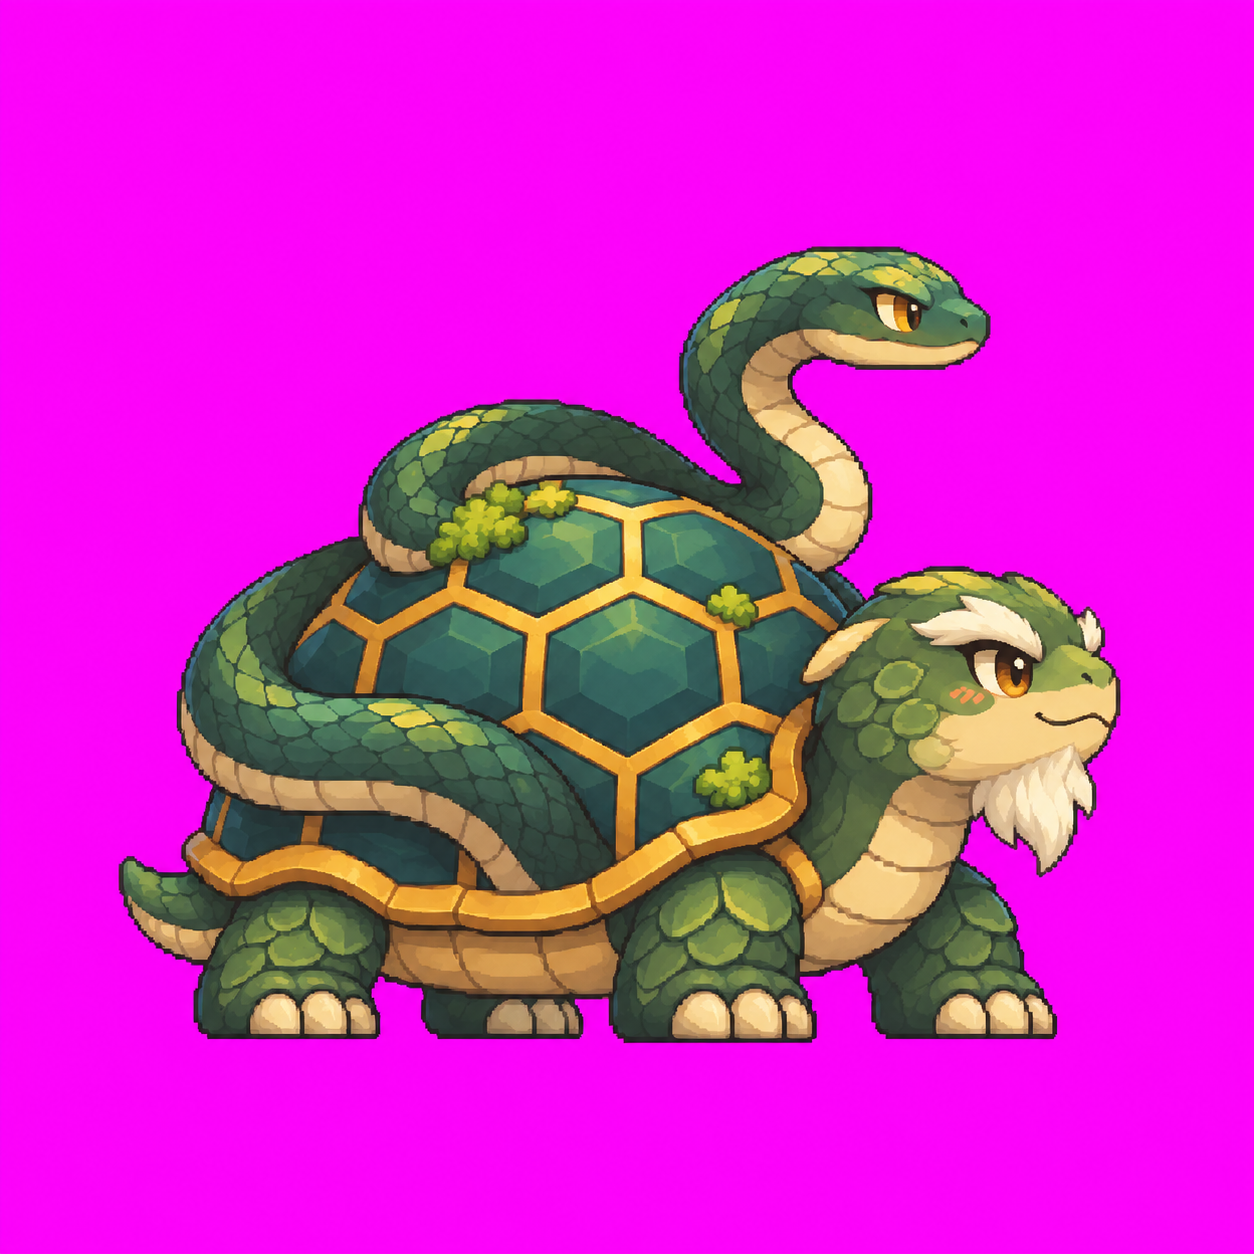
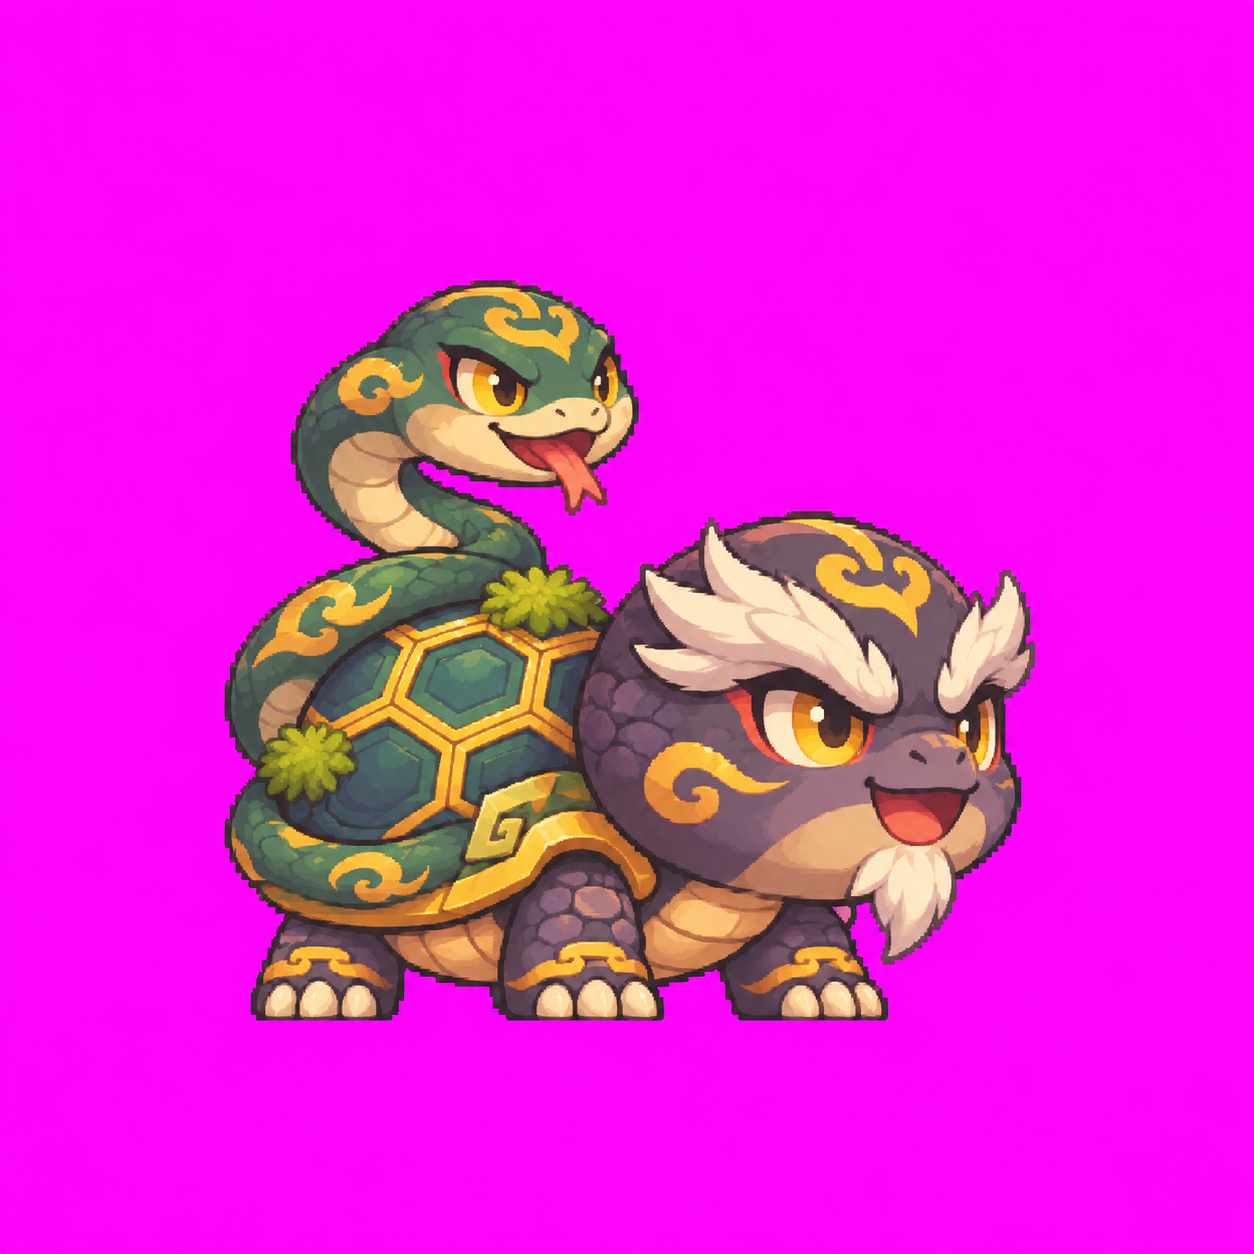
art(batch2): redesign xuanwu__stand.png for guardian v2

diff --git a/idle-td-art/batch2/README.md b/idle-td-art/batch2/README.md
@@ -1,6 +1,6 @@
 # 放置塔防第二批點陣圖：工單 B1　神獸 4 隻
 
-狀態：進行中：ChatGPT 神獸 v2 四張站立（已交 3/4）；通過前不畫攻擊
+狀態：待驗收（神獸 v2 四張站立已交齊；等待明確通過後才畫攻擊）
 （狀態只會是：待接手／進行中：<誰> <時間>／待驗收／完成通知）
 
 這是新遊戲「放置塔防」**第二批美術（神獸、塔、陣法）**的交接處，負責驗收的是 Claude 討論串「繪製塔防塔、陣法與神獸」。
@@ -118,12 +118,14 @@ GPT 畫歪時可以回它：
 | `images/baihu__stand.png` | 1254×1254 | 1 | v2 大頭短身白虎，冰藍神氣眼、一顆小虎牙、王紋、玉飾金環三鈴與風旋毛尾。 |
 | `images/qinglong__stand.png` | 1774×887 | 2 | v2 大頭金角青龍，神氣金眼、短胖 S 形青鱗身體、藍白鬃與小白珠；兩格上下懸浮。 |
 | `images/zhuque__stand.png` | 1774×887 | 2 | v2 大圓頭朱雀、驕傲金眼與高金冠、短圓身、金邊大翼；兩格上振／下振翅膀。 |
+| `images/xuanwu__stand.png` | 1254×1254 | 1 | v2 玄武巨頭與小龜殼、濃白眉小白鬚、金紋黑青殼；盤殼蛇有獨立大頭與吐舌笑。 |
 
 原圖 SHA-256：
 
[4 lines of base64/hex data omitted]
 
 ## 意見與待辦
 
